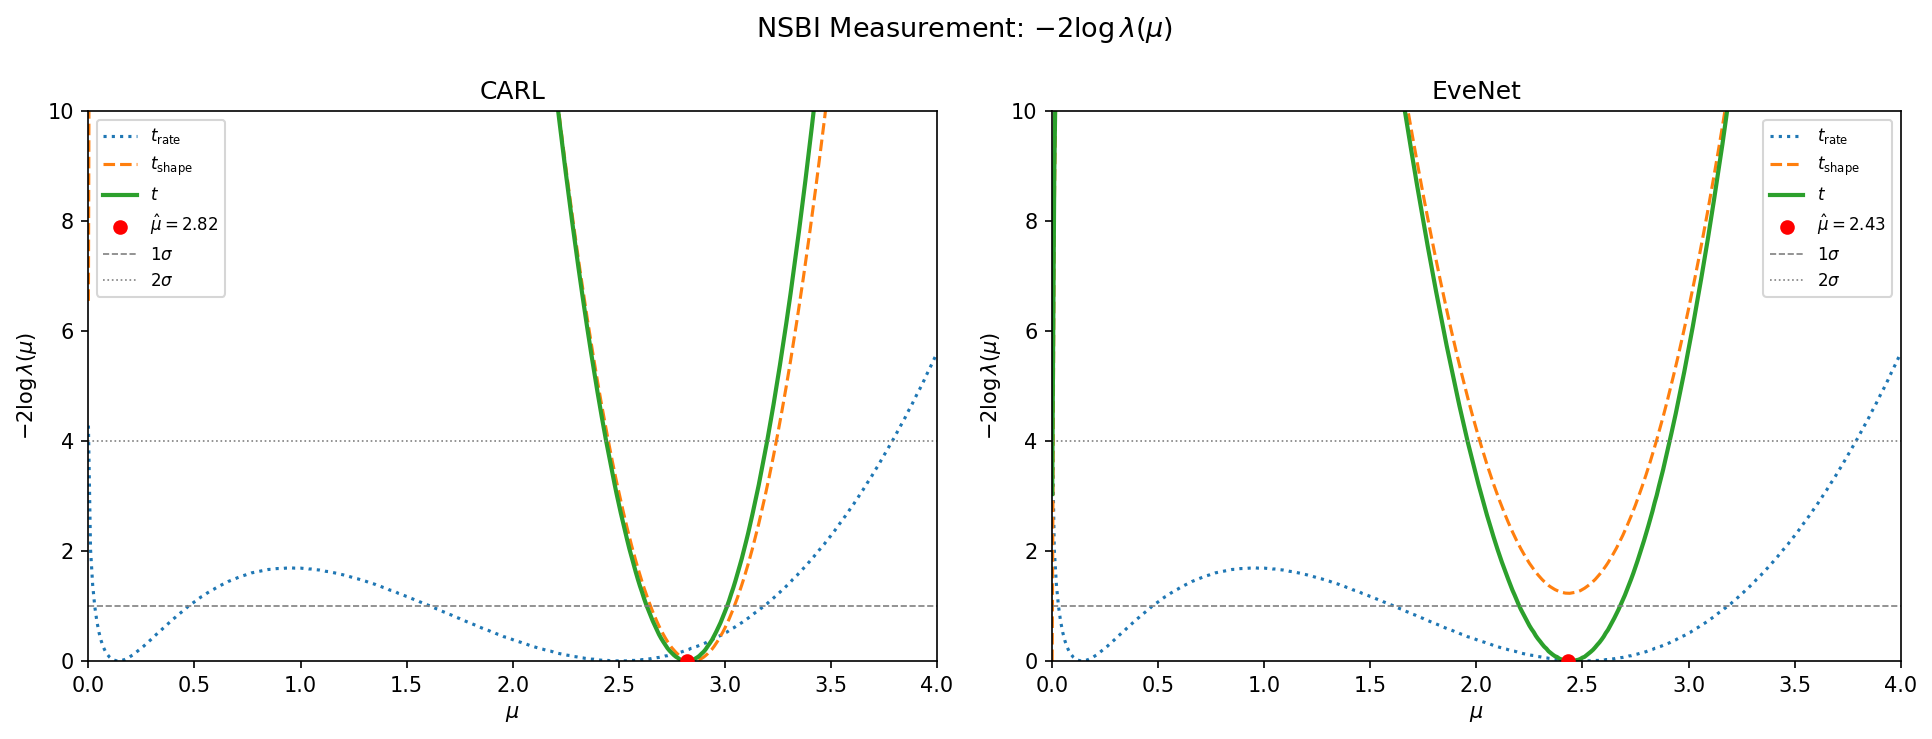
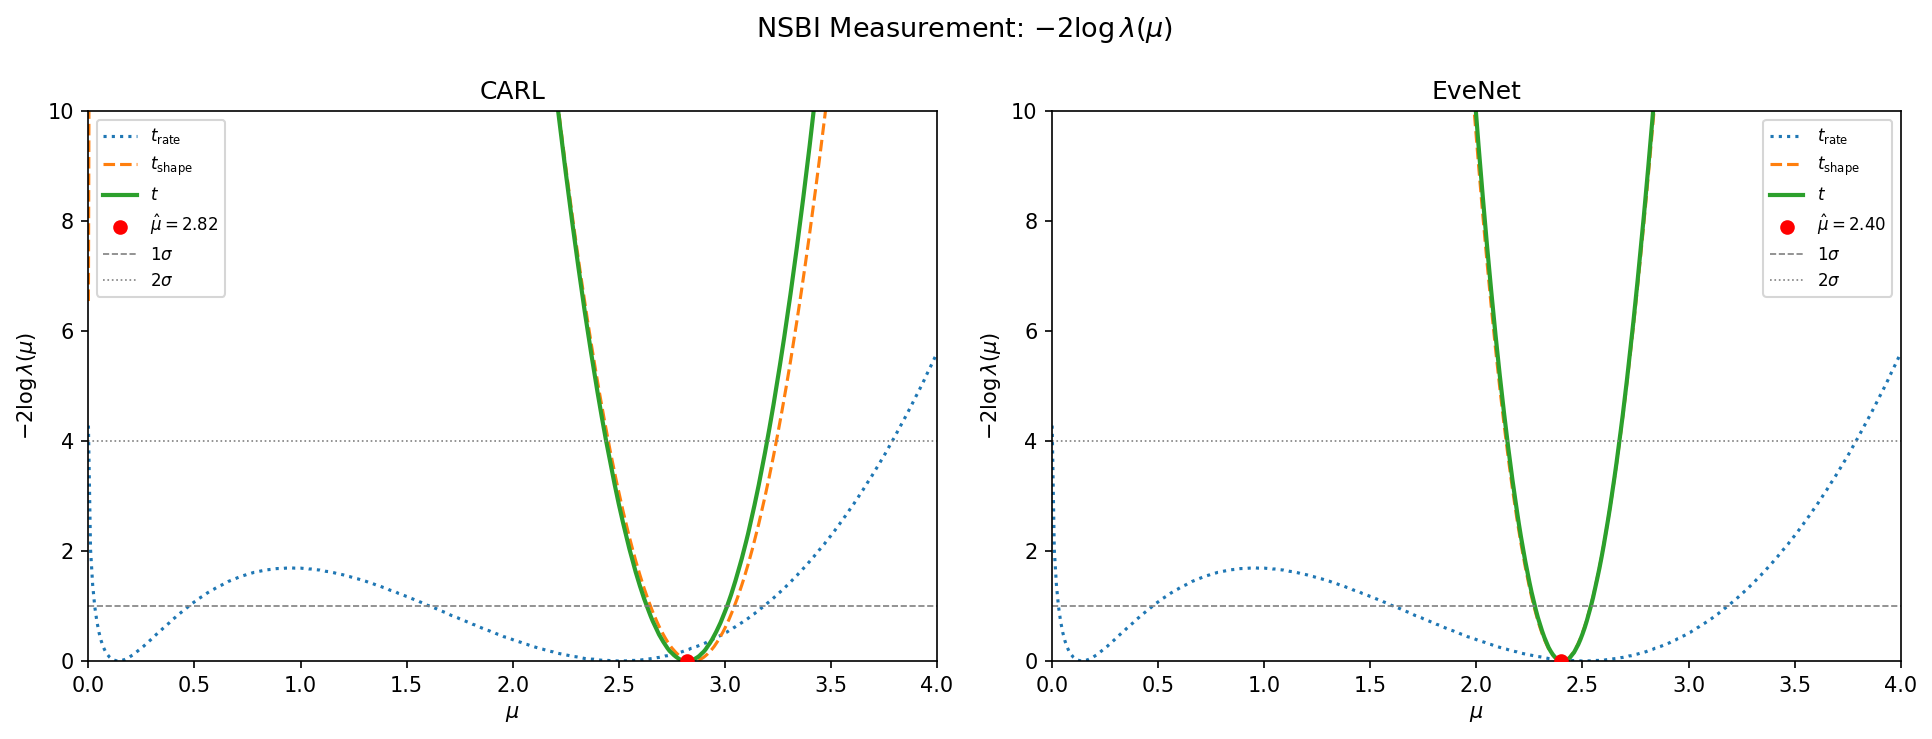
this doesn't work

Changed region(s): [[0.7453, 0.3735, 0.8696, 0.9026], [0.8696, 0.1556, 0.9006, 0.4668], [0.7143, 0.1556, 0.7453, 0.3735]]

diff --git a/sessions/day2/nsbi-tutorial/scripts/run_ablation_study.py b/sessions/day2/nsbi-tutorial/scripts/run_ablation_study.py
@@ -35,9 +35,9 @@ from matplotlib.gridspec import GridSpec
 # ── Paths ──────────────────────────────────────────────────────────────────────
 HOME        = Path.home()
 CHECKPOINTS = HOME / 'checkpoints'
-NSBI_DIR    = Path('/mnt/c/Users/Unnat/2025-lbnl/sessions/day2/nsbi-tutorial')
-EVENET_REPO = Path('/mnt/c/Users/Unnat/2025-lbnl/EveNet-Lite-main')
-REPO_ROOT   = Path('/mnt/c/Users/Unnat/2025-lbnl')
+NSBI_DIR    = Path('/mnt/c/Users/Unnat/nsbi-internship/sessions/day2/nsbi-tutorial')
+EVENET_REPO = Path('/mnt/c/Users/Unnat/nsbi-internship/EveNet-Lite-main')
+REPO_ROOT   = Path('/mnt/c/Users/Unnat/nsbi-internship')
 SCRIPTS_DIR = NSBI_DIR / 'scripts'
 
 OBS_CSVS        = [REPO_ROOT / f'observed_{i}.csv' for i in range(5)]
@@ -74,9 +74,8 @@ MAX_TRAIN  = 100_000  # per class cap for training
 VAL_FRAC   = 0.2
 SEED       = 42
 BATCH_SIZE = 512
-SBI_EPOCHS = 15
+SBI_EPOCHS = 20
 SIG_EPOCHS = 10
-PATIENCE   = 5
 
 # ── Ablation configs ───────────────────────────────────────────────────────────
 ABLATIONS = [
@@ -118,8 +117,16 @@ def build_ablation_clf(cls_overrides: dict):
 
 def load_backbone_weights(clf, ckpt_path: Path) -> dict:
     raw = torch.load(str(ckpt_path), map_location='cpu')
-    clf._soft_load_state_dict(raw.get('model', raw))
-    return raw.get('normalizer', None)
+    backbone_only = {k: v for k, v in raw.get('model', raw).items()
+                     if 'Classification' not in k}
+    clf._soft_load_state_dict(backbone_only)
+    # normalizer state_dict has {'stats': {...}, 'rules': {...}, ...}
+    # but apply_user_stats expects {'x': {'mean': ..., 'std': ...}, ...}
+    # so we extract just the 'stats' sub-dict
+    normalizer = raw.get('normalizer', None)
+    if normalizer is not None:
+        return normalizer.get('stats', None)
+    return None
 
 
 def freeze_backbone(clf) -> None:
@@ -143,7 +150,8 @@ def load_training_pair(csv_a: Path, csv_b: Path):
             df = df.iloc[rng.choice(len(df), MAX_TRAIN, replace=False)].reset_index(drop=True)
         feats   = diag.df_to_evenet(df)
         labels  = torch.full((len(df),), label, dtype=torch.long)
-        weights = torch.tensor(df['wt'].to_numpy(), dtype=torch.float32)
+        wt = df['wt'].to_numpy().astype(np.float32)
+        weights = torch.tensor(wt / wt.mean(), dtype=torch.float32)
         return feats, labels, weights
 
     fa, la, wa = cap_load(csv_a, 0)
@@ -192,11 +200,9 @@ def train_head(clf, train_data, val_data, normalizer_state,
         epochs=epochs, batch_size=BATCH_SIZE,
         checkpoint_path=str(ckpt_dir / 'best'),
         save_top_k=1, monitor_metric='val_loss', minimize_metric=True,
-        early_stop_metric='val_loss', early_stop_patience=PATIENCE,
-        early_stop_minimize=True,
     )
     best_loss = float('nan')
-    for f in sorted(ckpt_dir.glob('best*.pt')):
+    for f in sorted(ckpt_dir.glob('best/best*.pt')):
         try:
             v = (torch.load(str(f), map_location='cpu').get('extra') or {}).get('monitored_metric')
             if v is not None and (np.isnan(best_loss) or v < best_loss):
@@ -340,7 +346,7 @@ def run_ablation(name: str, cls_overrides: dict,
                                    torch.ones (len(sig_val_df), dtype=torch.long)]),
                         torch.cat([wt_bkg_v, wt_sig_v]))
 
-        print(f'\n  Training SBI head ({SBI_EPOCHS} max epochs, patience={PATIENCE}) ...')
+        print(f'\n  Training SBI head ({SBI_EPOCHS} max epochs) ...')
         clf_sbi  = build_ablation_clf(cls_overrides)
         norm_sbi = load_backbone_weights(clf_sbi, EVENET_SBI_CKPT)
         freeze_backbone(clf_sbi)
@@ -349,7 +355,7 @@ def run_ablation(name: str, cls_overrides: dict,
         print(f'    best val_loss_sbi = {val_loss_sbi:.5f}')
         del train_sbi; gc.collect()
 
-        print(f'\n  Training SIG head ({SIG_EPOCHS} max epochs, patience={PATIENCE}) ...')
+        print(f'\n  Training SIG head ({SIG_EPOCHS} max epochs) ...')
         clf_sig  = build_ablation_clf(cls_overrides)
         norm_sig = load_backbone_weights(clf_sig, EVENET_SIG_CKPT)
         freeze_backbone(clf_sig)

diff --git a/sessions/day2/nsbi-tutorial/scripts/score_observed.py b/sessions/day2/nsbi-tutorial/scripts/score_observed.py
@@ -7,7 +7,7 @@ Calibration factors are derived from bkg_train (slim CSV, same as run_diagnostic
 Output: ~/observed_scores.pt  — used by run_measurement.py
 
 Run (WSL, nsbi-venv activated):
-  python3 /mnt/c/Users/Unnat/2025-lbnl/sessions/day2/nsbi-tutorial/scripts/score_observed.py
+  python3 /mnt/c/Users/Unnat/nsbi-internship/sessions/day2/nsbi-tutorial/scripts/score_observed.py
 """
 
 import sys, gc, logging
@@ -21,14 +21,14 @@ from sklearn.preprocessing import StandardScaler
 # ── Paths ──────────────────────────────────────────────────────────────────────
 HOME        = Path.home()
 CHECKPOINTS = HOME / 'checkpoints'
-NSBI_DIR    = Path('/mnt/c/Users/Unnat/2025-lbnl/sessions/day2/nsbi-tutorial')
-EVENET_REPO = Path('/mnt/c/Users/Unnat/2025-lbnl/EveNet-Lite-main')
+NSBI_DIR    = Path('/mnt/c/Users/Unnat/nsbi-internship/sessions/day2/nsbi-tutorial')
+EVENET_REPO = Path('/mnt/c/Users/Unnat/nsbi-internship/EveNet-Lite-main')
 OBS_CSVS    = [
-    Path('/mnt/c/Users/Unnat/2025-lbnl/observed_0.csv'),
-    Path('/mnt/c/Users/Unnat/2025-lbnl/observed_1.csv'),
-    Path('/mnt/c/Users/Unnat/2025-lbnl/observed_2.csv'),
-    Path('/mnt/c/Users/Unnat/2025-lbnl/observed_3.csv'),
-    Path('/mnt/c/Users/Unnat/2025-lbnl/observed_4.csv'),
+    Path('/mnt/c/Users/Unnat/nsbi-internship/observed_0.csv'),
+    Path('/mnt/c/Users/Unnat/nsbi-internship/observed_1.csv'),
+    Path('/mnt/c/Users/Unnat/nsbi-internship/observed_2.csv'),
+    Path('/mnt/c/Users/Unnat/nsbi-internship/observed_3.csv'),
+    Path('/mnt/c/Users/Unnat/nsbi-internship/observed_4.csv'),
 ]
 OUT_PT      = HOME / 'observed_scores.pt'
 
@@ -79,7 +79,7 @@ def load_carl(path):
 
 def load_evenet(path):
     clf = EvenetLiteClassifier(
-        class_labels=['bkg', 'num'], device='cpu', num_workers=0,
+        class_labels=['bkg', 'num'], device='auto', num_workers=0,
         global_input_dim=3, sequential_input_dim=4,
     )
     clf.load_checkpoint(str(path), feature_names=EVENET_FEATURE_NAMES, map_location='cpu')

diff --git a/sessions/day2/nsbi-tutorial/scripts/run_diagnostics.py b/sessions/day2/nsbi-tutorial/scripts/run_diagnostics.py
@@ -7,7 +7,7 @@ Side-by-side diagnostic plots for CARL and EveNet-Lite:
   2. Calibration curve: NSBI ŝ(x) vs MC s(x)      [2×2 grid]
 
 Run (WSL, nsbi-venv activated):
-  python3 /mnt/c/Users/Unnat/2025-lbnl/sessions/day2/nsbi-tutorial/scripts/run_diagnostics.py
+  python3 /mnt/c/Users/Unnat/nsbi-internship/sessions/day2/nsbi-tutorial/scripts/run_diagnostics.py
 """
 
 import sys, gc, logging
@@ -24,8 +24,8 @@ from sklearn.preprocessing import StandardScaler
 # ── Paths ─────────────────────────────────────────────────────────────────────
 HOME        = Path.home()
 CHECKPOINTS = HOME / 'checkpoints'
-NSBI_DIR    = Path('/mnt/c/Users/Unnat/2025-lbnl/sessions/day2/nsbi-tutorial')
-EVENET_REPO = Path('/mnt/c/Users/Unnat/2025-lbnl/EveNet-Lite-main')
+NSBI_DIR    = Path('/mnt/c/Users/Unnat/nsbi-internship/sessions/day2/nsbi-tutorial')
+EVENET_REPO = Path('/mnt/c/Users/Unnat/nsbi-internship/EveNet-Lite-main')
 PLOTS_DIR   = NSBI_DIR / 'plots'
 PLOTS_DIR.mkdir(exist_ok=True)
 
@@ -77,7 +77,7 @@ def load_carl(path):
 
 def load_evenet(path):
     clf = EvenetLiteClassifier(
-        class_labels=['bkg', 'num'], device='cpu', num_workers=0,
+        class_labels=['bkg', 'num'], device='auto', num_workers=0,
         global_input_dim=3, sequential_input_dim=4,
     )
     clf.load_checkpoint(str(path), feature_names=EVENET_FEATURE_NAMES, map_location='cpu')

diff --git a/sessions/day2/nsbi-tutorial/scripts/load_checkpoints.py b/sessions/day2/nsbi-tutorial/scripts/load_checkpoints.py
@@ -4,7 +4,7 @@ load_checkpoints.py
 ───────────────────
 Verify that both CARL and EveNet-Lite checkpoints load correctly.
 Run from WSL with nsbi-venv activated:
-    python3 /mnt/c/Users/Unnat/2025-lbnl/sessions/day2/nsbi-tutorial/scripts/load_checkpoints.py
+    python3 /mnt/c/Users/Unnat/nsbi-internship/sessions/day2/nsbi-tutorial/scripts/load_checkpoints.py
 """
 
 import sys
@@ -12,8 +12,8 @@ from pathlib import Path
 
 HOME        = Path.home()
 CHECKPOINTS = HOME / 'checkpoints'
-NSBI_DIR    = Path('/mnt/c/Users/Unnat/2025-lbnl/sessions/day2/nsbi-tutorial')
-EVENET_REPO = Path('/mnt/c/Users/Unnat/2025-lbnl/EveNet-Lite-main')
+NSBI_DIR    = Path('/mnt/c/Users/Unnat/nsbi-internship/sessions/day2/nsbi-tutorial')
+EVENET_REPO = Path('/mnt/c/Users/Unnat/nsbi-internship/EveNet-Lite-main')
 
 for p in (str(NSBI_DIR), str(EVENET_REPO)):
     if p not in sys.path:
@@ -49,7 +49,7 @@ def load_carl(path):
 def load_evenet(path):
     clf = EvenetLiteClassifier(
         class_labels=['bkg', 'num'],
-        device='cpu',
+        device='auto',
         num_workers=0,
         global_input_dim=3,
         sequential_input_dim=4,

diff --git a/sessions/day2/nsbi-tutorial/scripts/run_measurement.py b/sessions/day2/nsbi-tutorial/scripts/run_measurement.py
@@ -8,7 +8,7 @@ Reads ~/model_scores.pt (produced by score_both_models.py) and generates:
   2. Model comparison: CARL vs EveNet total NLL — single figure
 
 Run (WSL, nsbi-venv activated):
-  python3 /mnt/c/Users/Unnat/2025-lbnl/sessions/day2/nsbi-tutorial/scripts/run_measurement.py
+  python3 /mnt/c/Users/Unnat/nsbi-internship/sessions/day2/nsbi-tutorial/scripts/run_measurement.py
 """
 
 import json
@@ -22,8 +22,8 @@ import matplotlib.pyplot as plt
 
 # ── Paths ─────────────────────────────────────────────────────────────────────
 HOME      = Path.home()
-DATA_DIR  = Path('/mnt/c/Users/Unnat/2025-lbnl')
-NSBI_DIR  = Path('/mnt/c/Users/Unnat/2025-lbnl/sessions/day2/nsbi-tutorial')
+DATA_DIR  = Path('/mnt/c/Users/Unnat/nsbi-internship')
+NSBI_DIR  = Path('/mnt/c/Users/Unnat/nsbi-internship/sessions/day2/nsbi-tutorial')
 PLOTS_DIR = NSBI_DIR / 'plots'
 PLOTS_DIR.mkdir(exist_ok=True)
 

diff --git a/sessions/day2/nsbi-tutorial/scripts/convert_to_evenet.py b/sessions/day2/nsbi-tutorial/scripts/convert_to_evenet.py
@@ -55,7 +55,7 @@ Use EVENET_NORMALIZATION_RULES (printed at the end) to override those to "none".
 ━━━━━━━━━━━━━━━━━━━━━━━━━━━━━━━━━━━━━━━━━━━━━━━━━━━━━━━━━━━━━━━━━━━━━━━━━━━━
 
 Usage (WSL, nsbi-venv activated):
-    python3 /mnt/c/Users/Unnat/2025-lbnl/sessions/day2/nsbi-tutorial/scripts/convert_to_evenet.py
+    python3 /mnt/c/Users/Unnat/nsbi-internship/sessions/day2/nsbi-tutorial/scripts/convert_to_evenet.py
 """
 
 import sys

diff --git a/EveNet-Lite-main/main.py b/EveNet-Lite-main/main.py
@@ -206,7 +206,7 @@ if __name__ == '__main__':
 
     clf = EvenetLiteClassifier(
         class_labels=['bkg', 'signal'],
-        device="mps",  # "cpu", "cuda", or "auto"
+        device="auto",  # "cpu", "cuda", or "auto"
         lr=[5e-5, 1e-5, 5e-6],
         weight_decay=1e-2,
         module_lists=[
